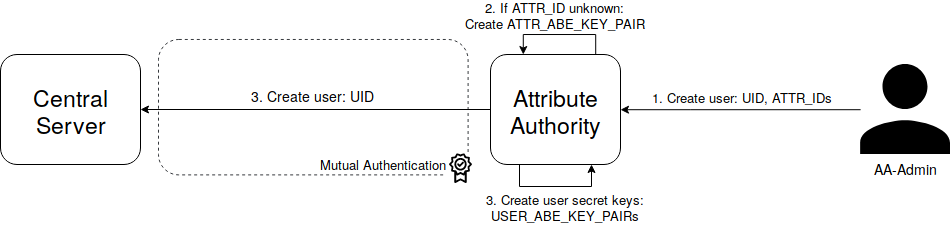
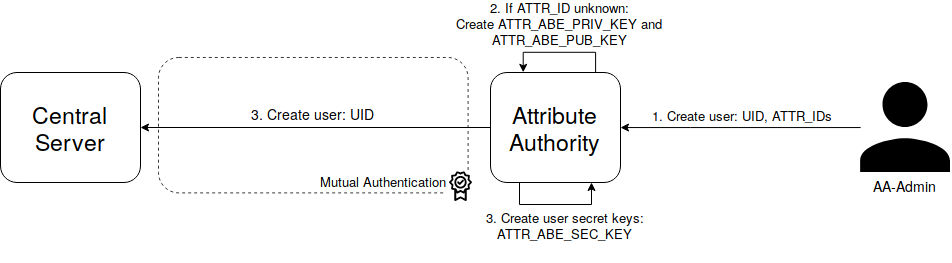
added new graphics

diff --git a/thesis/content/05-implementation.tex b/thesis/content/05-implementation.tex
@@ -134,6 +134,8 @@ The setup summarizes the steps described in \cite{li2017two} such as: Setup, use
 \subsubsection{Generate Global Public Paramter}
 The very first step is to create the global public parameters on the central server. Thous parameter are exposed on a public bulletin board and available for each entity in the system. Since they are required in every step it is assumed that the entity downloaded this information in advance. 
 
+\todo{rename PRIV key to sec KEY}
+
 % AA setup
 \subsubsection{Setup Attribute Authority}
 \begin{figure}[!h]
@@ -220,6 +222,7 @@ As mentioned in section \ref{sec:extension-to-dnf-policy} an extension to DNF po
     \label{fig:tfdacmacs-encrypt-2fa}
 \end{figure}
 
+\todo{overwork}
 In order to also secure the cipher text utilizing two-factor keys, additional preparation need to be done.  As displayed in figure \ref{fig:tfdacmacs-encrypt-2fa}, first a new two-factor master key is created (1.). This one is kept secret on the device. It will be used later to issue more two-factor authentication keys to other users or revoke two-factor authentication keys. 
 
 For each user that shall receive a two-factor key, the device creates a user specific two-factor authentication secret key (2.). To prevent collusion it is made unique for each user using the hash of the user id as a uniqueness source. Before uploading this keys to the central server, the device needs to encrypt them for each user respectively.  To do so, it is checked that each user that shall receive a two-factor authentication key has an authority that is an element in the trusted ID set. For each user this check returns success, the central service is asked for the certificates of each device of this user (3 and 4).
@@ -235,12 +238,19 @@ Since the central server can not be trusted to return tampered certificates the 
     \caption{Decryption phase}
     \label{fig:tfdacmacs-decryption}
 \end{figure}
-
+\todo{overwork for 2 FA key}
 Compared to encryption, decryption is rather straight forward. As figure \ref{fig:tfdacmacs-decryption} shows, periodically the device checks if new satisfyable cipher texts are present at the central server. This is done by sending all attribute value IDs for that the devices owns a private ABE key in a query to the central server (1.). It on the other hand checks if any cipher text can be satisfied by a subset of this given attribute set. This can be done by selecting all cipher texts and checking their respective access policies if all elements of this policy are a true subset of the given attribute value IDs from the device. All cipher text that satisfy this constrains are returned (2.).
 
 The device proceeds to extract the file ID from the given cipher text and request this encrypted file from the CSP (3. and 4.). \todo{make integrity checks? Maybe make the file Id to the hash of the file content}. Locally, the cipher text is now decrypted using the user specific ABE private keys issued on device register (see section \ref{sec:register-a-device}) (5.). After the file key is recovered it can be used for symmetric  AES decryption of the encrypted file (6.). 
 
 \subsection{Revoke attribute}
+\begin{figure}[!t]
+\centering
+    \includegraphics[width=1.0\linewidth]{img/attribute_revokation.png}
+    \caption{Revoking an attribute key}
+    \label{fig:tfdacmacs-attribute-revokation}
+\end{figure}
+
 \todo{write me}
 
 % \begin{figure}[!t]
@@ -253,6 +263,13 @@ The device proceeds to extract the file ID from the given cipher text and reques
 % As displayed in figure \ref{fig:tfdacmacs-attr-revocation}, a revocation of an attribute key is always triggered by the AA that administers this attribute. It first creates a new secret key for the revoked attribute and calculates for each user owning the old attribute a user-specific delta. This delta is send to each non-revoked user respectively. In addition, the AA calculates a cipher text update key. This is send to the CSP which then in turn starts updating all the cipher text for the new attribute secret key. This operation will not affect the plain text message in any kind. 
 
 \subsection{Revoke two-factor key}
+\begin{figure}[!t]
+\centering
+    \includegraphics[width=1.0\linewidth]{img/2FA_revoke.png}
+    \caption{Revoking two-factor keys}
+    \label{fig:tfdacmacs-2FA-revokation}
+\end{figure}
+
 \todo{write me}
 
 % \begin{figure}[!t]
